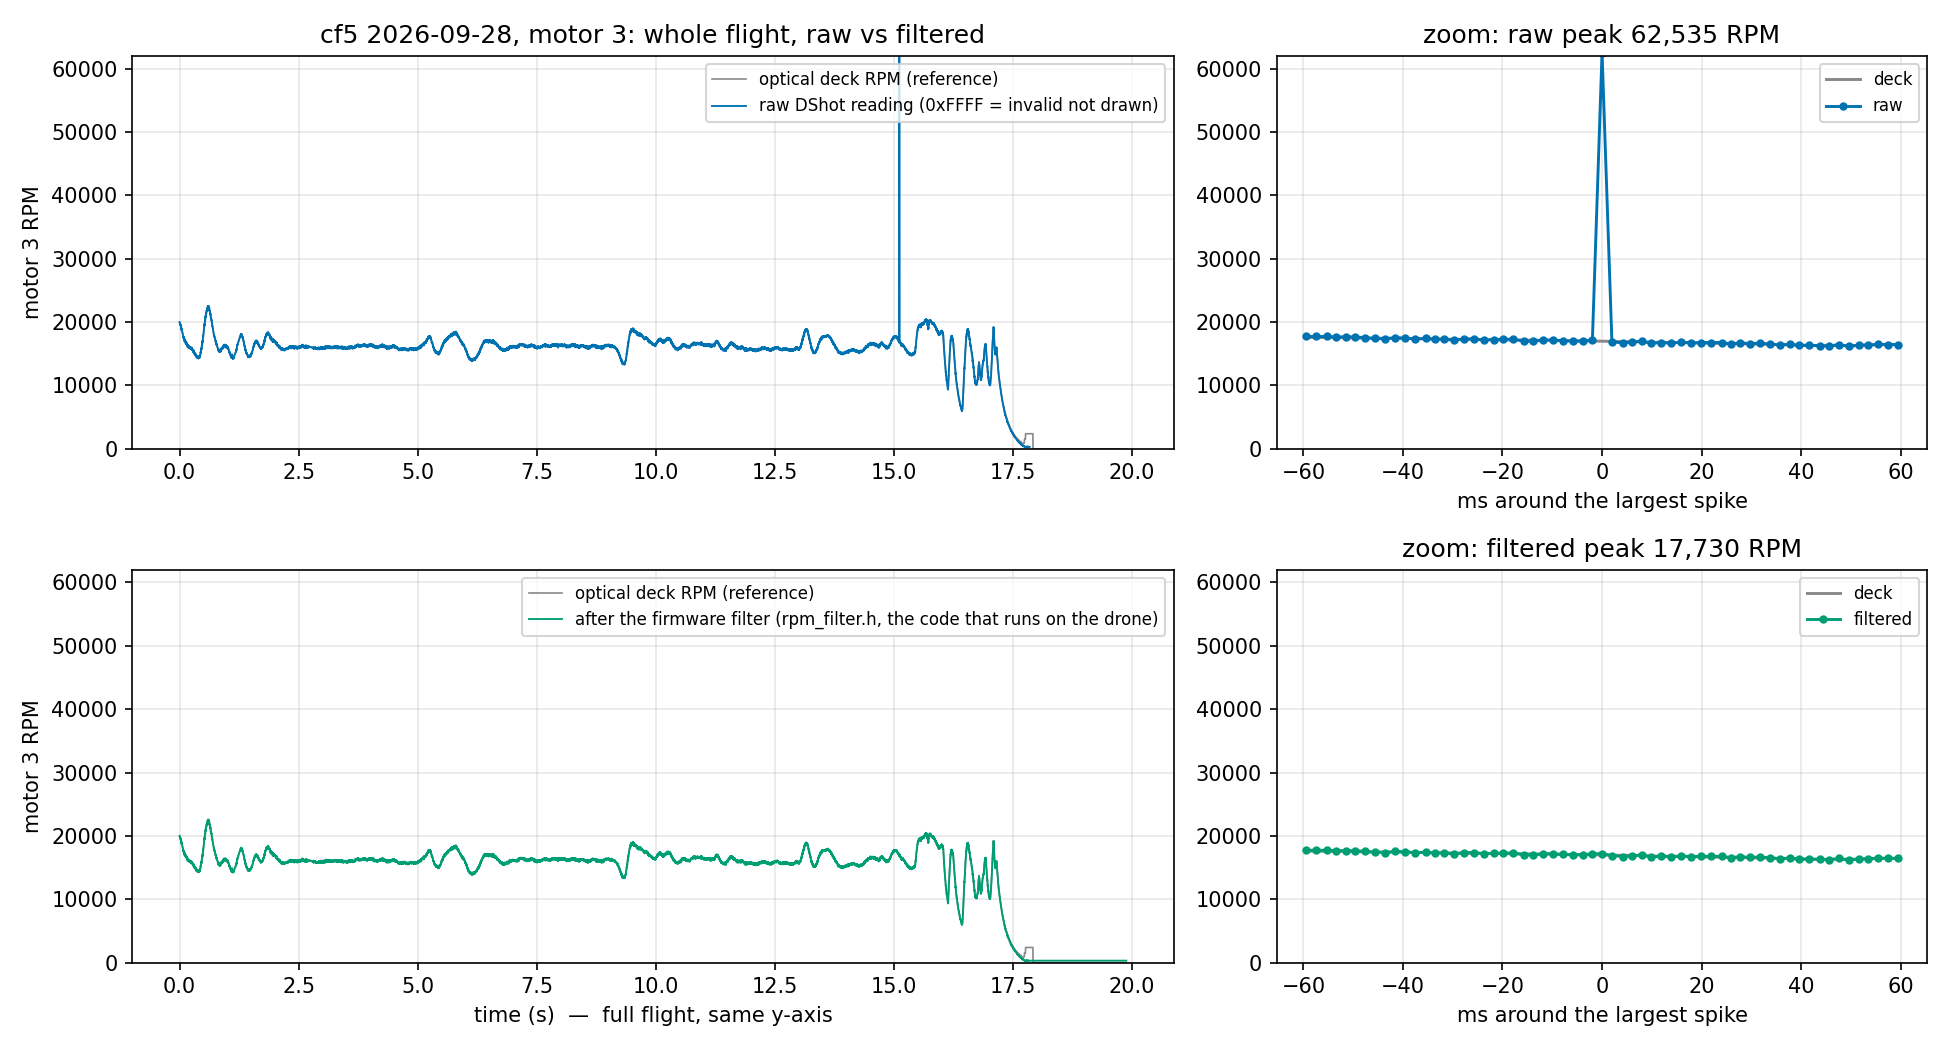
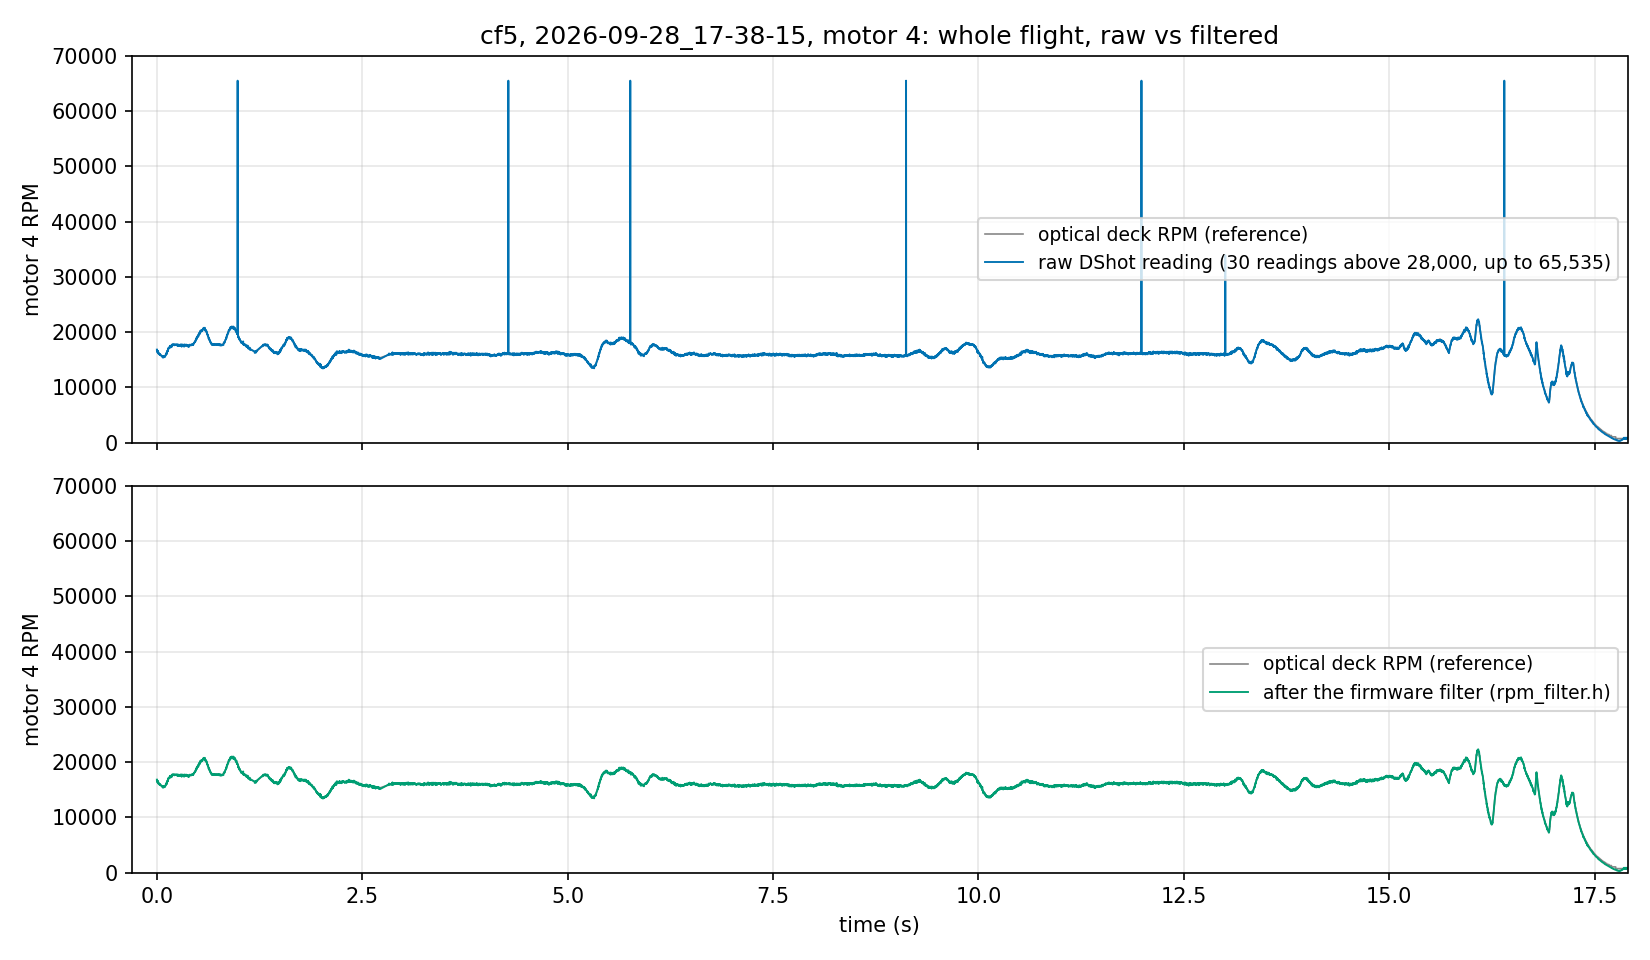
Meeting doc 2026-10-12 section 4: example flight with many bad readings

diff --git a/experiments/analysis/rpm_spike_filter_evidence.py b/experiments/analysis/rpm_spike_filter_evidence.py
@@ -98,19 +98,17 @@ def main():
             n_all.setdefault("max_raw_valid", 0.0); n_all["max_raw_valid"] = max(n_all["max_raw_valid"], float(rw[u & (rw < 65000)].max()))
             n_all.setdefault("max_filtered", 0.0); n_all["max_filtered"] = max(n_all["max_filtered"], float(fl[u].max()))
     print(n_all)
-    k0 = int(np.argmax(np.where(up & (raw < 65000), raw, 0)))
-    fig, ax = plt.subplots(2, 2, figsize=(13, 7), gridspec_kw=dict(width_ratios=[1.6, 1]))
-    rp = np.where(raw >= 65000, np.nan, raw)
-    for a, y, ttl, c in ((ax[0, 0], rp, "raw DShot reading (0xFFFF = invalid not drawn)", "#0072B2"), (ax[1, 0], filt, "after the firmware filter (rpm_filter.h, the code that runs on the drone)", "#009E73")):
-        a.plot(t, deck, color="#888888", lw=0.8, label="optical deck RPM (reference)"); a.plot(t, y, color=c, lw=0.9, label=ttl)
-        a.set_ylim(0, 62000); a.set_ylabel(f"motor {i} RPM"); a.legend(fontsize=8, loc="upper right"); a.grid(alpha=0.3)
-    ax[1, 0].set_xlabel("time (s)  —  full flight, same y-axis"); ax[0, 0].set_title(f"cf5 {stamp[:10]}, motor {i}: whole flight, raw vs filtered")
-    w = slice(max(0, k0 - 30), k0 + 31); tz = (t[w] - t[k0]) * 1e3
-    for a, y, c, ttl in ((ax[0, 1], raw, "#0072B2", "raw"), (ax[1, 1], filt, "#009E73", "filtered")):
-        a.plot(tz, deck[w], color="#888888", lw=1.4, label="deck"); a.plot(tz, y[w], color=c, lw=1.4, marker=".", label=ttl)
-        a.set_ylim(0, 62000); a.set_xlabel("ms around the largest spike"); a.legend(fontsize=8); a.grid(alpha=0.3)
-    ax[0, 1].set_title(f"zoom: raw peak {mx:,.0f} RPM"); ax[1, 1].set_title(f"zoom: filtered peak {filt[w].max():,.0f} RPM")
+    # figure: the flight/motor with the most bad readings on one motor (several off-scale readings in one flight)
+    f = [x for x in F if "cf5_thesis06_2026-09-28_17-38-15" in x[1]][0][1]; r = [x for x in F if x[1] == f][0][2]; i = 4
+    raw = r[f"motor_m{i}_rpm"].astype(float); deck = r[f"rpm_m{i}"].astype(float); filt = run_filter(L1, raw); t = r["t"] - r["t"][0]; up = r["z"] > 0.3
+    nbad = int((up & (raw > 28000)).sum()); mx = raw[up].max()
+    fig, ax = plt.subplots(2, 1, figsize=(11, 6.4), sharex=True, sharey=True)
+    ax[0].plot(t, deck, color="#888888", lw=0.8, label="optical deck RPM (reference)"); ax[0].plot(t, raw, color="#0072B2", lw=0.9, label=f"raw DShot reading ({nbad} readings above 28,000, up to {mx:,.0f})")
+    ax[1].plot(t, deck, color="#888888", lw=0.8, label="optical deck RPM (reference)"); ax[1].plot(t, filt, color="#009E73", lw=0.9, label="after the firmware filter (rpm_filter.h)")
+    for a_ in ax: a_.set_ylim(0, 70000); a_.set_ylabel(f"motor {i} RPM"); a_.legend(fontsize=9, loc="center right"); a_.grid(alpha=0.3)
+    ax[1].set_xlim(-0.3, 17.9); ax[1].set_xlabel("time (s)"); ax[0].set_title(f"cf5, {os.path.basename(f)[-23:-4]}, motor {i}: whole flight, raw vs filtered")
     fig.tight_layout(); fig.savefig(OUT / "rpm_spikes_raw_vs_filtered.png", dpi=150); plt.close(fig)
+    mx = float(mx); w = slice(0, 1); k0 = 0
     # ---- on-drone effect plot: grouped bars, spike type x firmware step
     types = [("huge (>28000)", "huge spike (> 28,000 RPM)"), ("invalid 0xFFFF", "invalid reading (0xFFFF)")]
     pers = [("A: before the spike guard", "#CC0000", "before the filter"), ("B: spike guard", "#E6A100", "spike filter (from 09-29)"), ("C: spike guard + sentinel hold", "#009E73", "spike filter + invalid-reading fix (from 10-09)")]
@@ -124,7 +122,7 @@ def main():
     ax.set_xticks(range(len(types))); ax.set_xticklabels([l for _, l in types]); ax.set_ylabel("change of the residual a_res_z at the spike tick (m/s², median)")
     ax.set_ylim(0, 1.9); ax.legend(fontsize=8); ax.grid(alpha=0.3, axis="y"); ax.set_title("Does a bad RPM reading reach the control residual? (cf5 flights, uSD, RPM from DShot)")
     fig.tight_layout(); fig.savefig(OUT / "rpm_spike_effect_on_ares.png", dpi=150); plt.close(fig)
-    (OUT / "numbers.json").write_text(json.dumps(dict(ares_response=res, filter_over_all_flights=n_all, example=dict(flight=os.path.basename(f), motor=i, raw_peak=float(mx), filtered_peak=float(filt[w].max()))), indent=1))
+    (OUT / "numbers.json").write_text(json.dumps(dict(ares_response=res, filter_over_all_flights=n_all, example=dict(flight=os.path.basename(f), motor=i, raw_peak=float(mx), filtered_peak=float(filt[up].max()), n_bad_raw=nbad)), indent=1))
 
 
 if __name__ == "__main__":

diff --git a/experiments/analysis/out/rpm_filter_evidence/rpm_filter_wrap.c b/experiments/analysis/out/rpm_filter_evidence/rpm_filter_wrap.c
@@ -1,0 +1,2 @@
+#include "/home/georg/Desktop/flying_robot_course/flying_drone_stack/firmware_app/rpm_filter.h"
+uint16_t step(uint16_t r, uint8_t s, uint16_t *p){return rpm_filter_step(r,s,p);}

diff --git a/docs/meetings/2026-10-12.md b/docs/meetings/2026-10-12.md
@@ -52,11 +52,12 @@ Notation: `z` = measured height, `z_cmd` = commanded height, `e_z = z − z_cmd`
 - Torques: different control laws, the pitch torque is 2.8× larger for ours.
 
 ## 4. RPM filter in the real loop DONE
-- The DShot RPM reading sometimes shows impossible values (up to 62,500 RPM, true value about 17,000). Filter in the firmware: reject values above 28,000 RPM and jumps above 10,000 RPM, keep the last good value (invalid readings 0xFFFF too).
+- The DShot RPM reading sometimes shows impossible values (up to 65,535 RPM, true value about 17,000). Filter in the firmware: reject values above 28,000 RPM and jumps above 10,000 RPM, keep the last good value (invalid readings 0xFFFF too).
 
 ![raw DShot RPM with a spike vs the same signal after the filter, whole flight and zoom](assets/2026-10-12/rpm_spikes_raw_vs_filtered.png)
 
-- 86 cf5 flights, 3.5 million samples: spikes up to 62,535 RPM in the raw signal, none after the filter (maximum 25,316). Of all samples the filter changed 0.004 %, everything else passes unchanged.
+- Example flight: 30 off-scale readings (up to 65,535 RPM) on one motor within 18 s, none after the filter.
+- All 86 cf5 flights, 3.5 million samples: spikes up to 65,535 RPM in the raw signal, none above 28,000 after the filter (maximum 25,316). Of all samples the filter changed 0.004 %, everything else passes unchanged.
 - Filter on vs off on the same day (our INDI, A8): no measurable difference in position or attitude error.
 - Conclusion: the filter works, it is enabled in the firmware and does not change the behaviour. It stays on.
 

diff --git a/docs/meetings/2026-10-05.md b/docs/meetings/2026-10-05.md
@@ -153,4 +153,9 @@ $$
   - Look another time into george's indi for cause for oscillation issue (unlikely to find something).
 - Decide on scenarios we want to include in comparative study (influences decision on indi selection).
 - Around 2 weeks since last email regarding FBL-Controller, we should follow up later this week perhaps. 
+- Regarding INDI controller comparison
+  - fix z integral or z error on omars c/rust version
+  - take input data for indi from different flights and let all 3 controllers run exactly same input numbers and compare output numbers theoretically all should agree if not there are differences in code/gains/filters
+- regarindg rpm apply filter also in real controller loop and validate it works without issues on real flights
+- preapre sim with ns2 for next session
 
